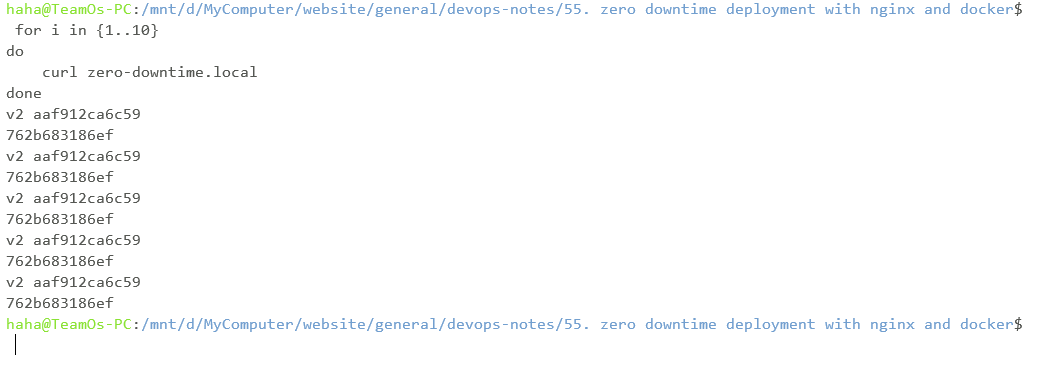
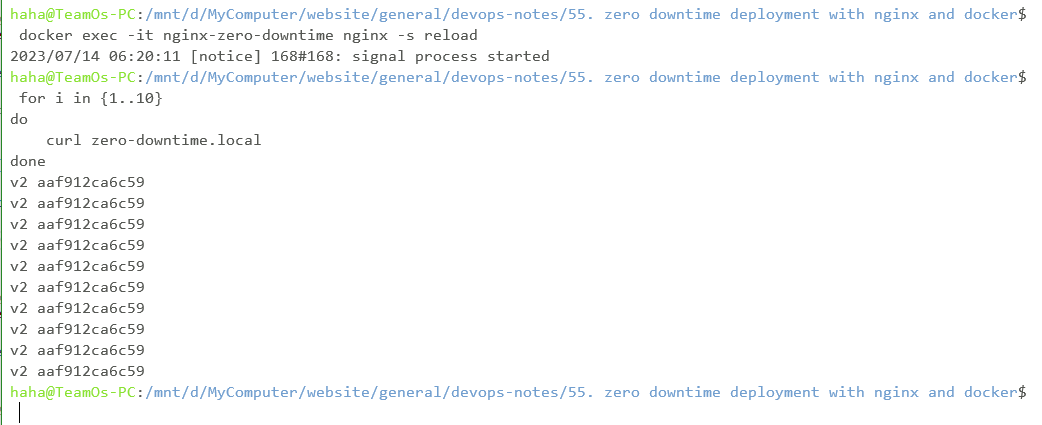
images added with readme

Changed region(s): [[0.0, 0.0, 0.9875, 0.9811]]

diff --git a/55. zero downtime deployment with nginx and docker/README.md b/55. zero downtime deployment with nginx and docker/README.md
@@ -69,6 +69,8 @@ It should return the container id.
 ```
 docker run -dit --name basic-api-2 --network zero-downtime minhaz1217/basic_go_api:v2
 ```
+![both containers are running](https://github.com/minhaz1217/devops-notes/blob/c0870351995debd1794209adf15bf7051df11e34/55.%20zero%20downtime%20deployment%20with%20nginx%20and%20docker/images/01.png?raw=true)
+*Both containers are running.*
 
 ### We'll change nginx config so that it will route to the new container along with the old container
 ```
@@ -98,6 +100,8 @@ done
 ```
 We can see that both v1 and v2 is being routed to.
 
+![both containers are running](https://github.com/minhaz1217/devops-notes/blob/c0870351995debd1794209adf15bf7051df11e34/55.%20zero%20downtime%20deployment%20with%20nginx%20and%20docker/images/02.png?raw=true)
+*Both containers are being routed to*
 ### Now we'll mark the v1 as down.
 ```
 service_name=basic-api
@@ -109,6 +113,9 @@ docker exec -it nginx-zero-downtime  sed -i "s/server $old_container_id:3000;/se
 ```
 docker exec -it nginx-zero-downtime cat /etc/nginx/conf.d/zero-downtime.conf
 ```
+
+![the old container is marked as down](https://github.com/minhaz1217/devops-notes/blob/c0870351995debd1794209adf15bf7051df11e34/55.%20zero%20downtime%20deployment%20with%20nginx%20and%20docker/images/03.png?raw=true)
+*The old container is marked as down*
 
 ### Now we'll check that our nginx config is correct
 ```
@@ -132,6 +139,10 @@ do
     curl zero-downtime.local
 done
 ```
+![Right after the config is applied all the requests are being routed to v2](https://github.com/minhaz1217/devops-notes/blob/c0870351995debd1794209adf15bf7051df11e34/55.%20zero%20downtime%20deployment%20with%20nginx%20and%20docker/images/04.png?raw=true)
+*Right after the config is applied all the requests are being routed to v2*
+
+
 
 ### When the delayed calls are finished, notice that even though we've reloaded nginx our call to the v1 container didn't drop and finished properly
 
